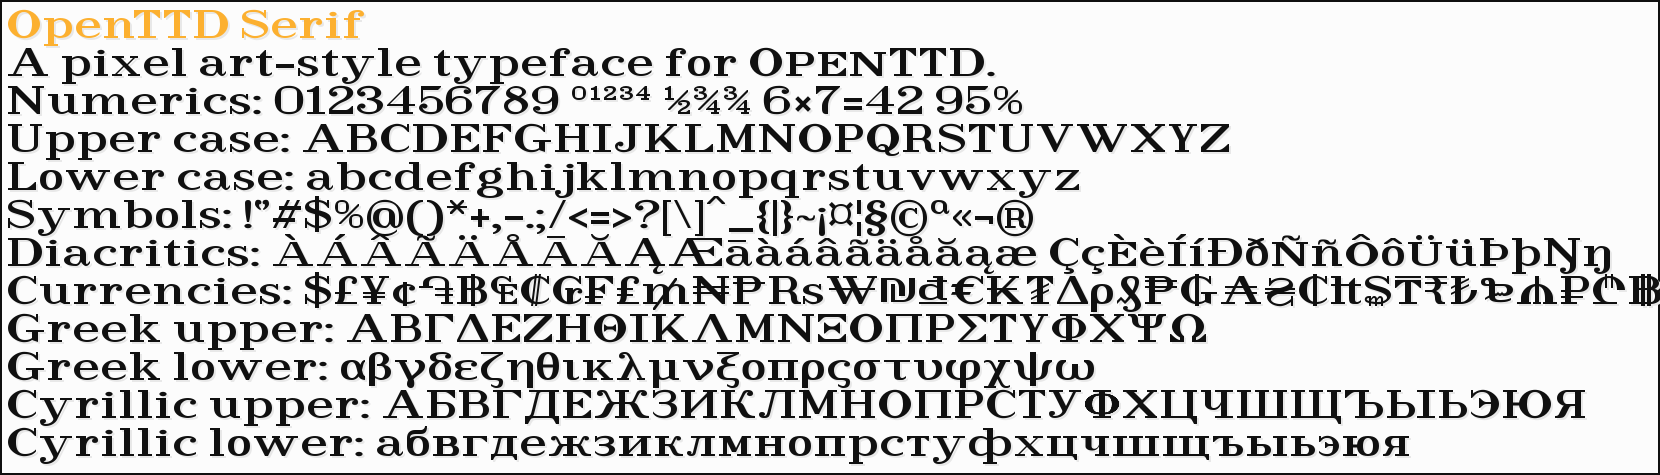
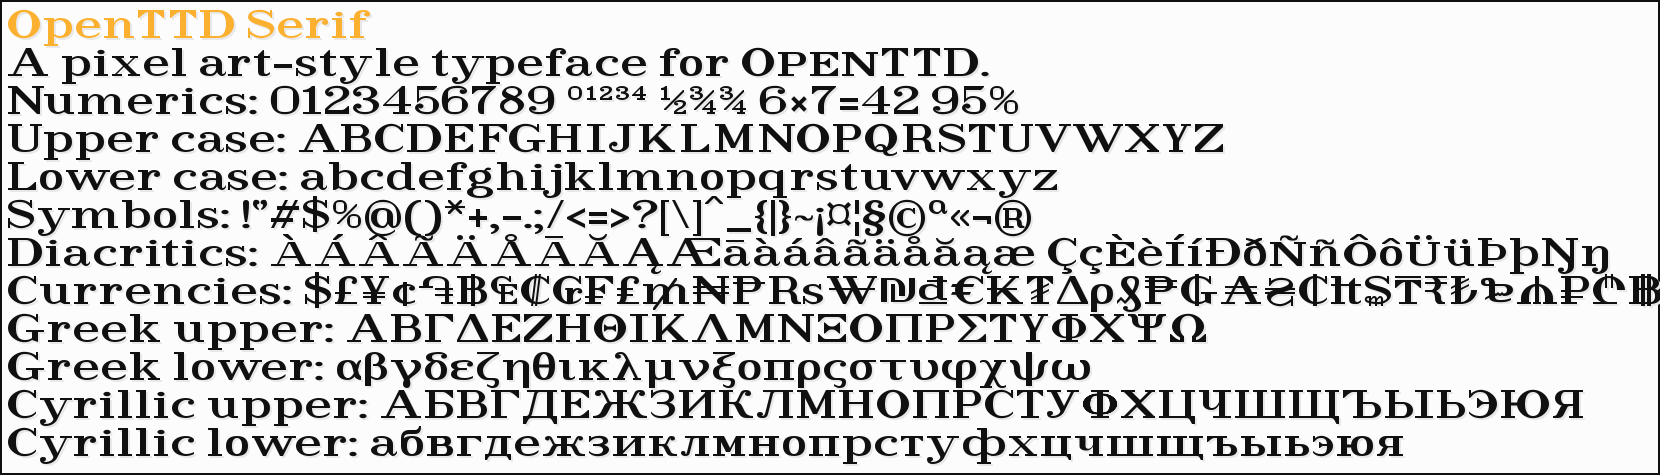
Feature: Basic (ASCII) Latin kerning for OpenTTD Serif
Also refine geometry of a and S

diff --git a/openttd-serif/readme.md b/openttd-serif/readme.md
@@ -44,10 +44,10 @@ SVGs are prepared at 1 pixel = 1 unit
 * overshoot: 10 units
 The top 100 units are always empty. During TTF generation from the FontForge SFD file, height is set to 1800.
 
-Bearings are optimised for pixel-perfect rendering:
+Bearings are optimised for pixel-perfect rendering with no overlap of the glyphs:
 * left bearing: 100 units, minus overshoot
 * right bearing: 100 units, minus overshoot
-And, kerning adjusts spacing in steps of 100 units.
+Kerning adjusts spacing in steps of 100 units, and gives a much tighter appearance.
 
 Diacritics are similarly positioned in steps of 100 units.
 
